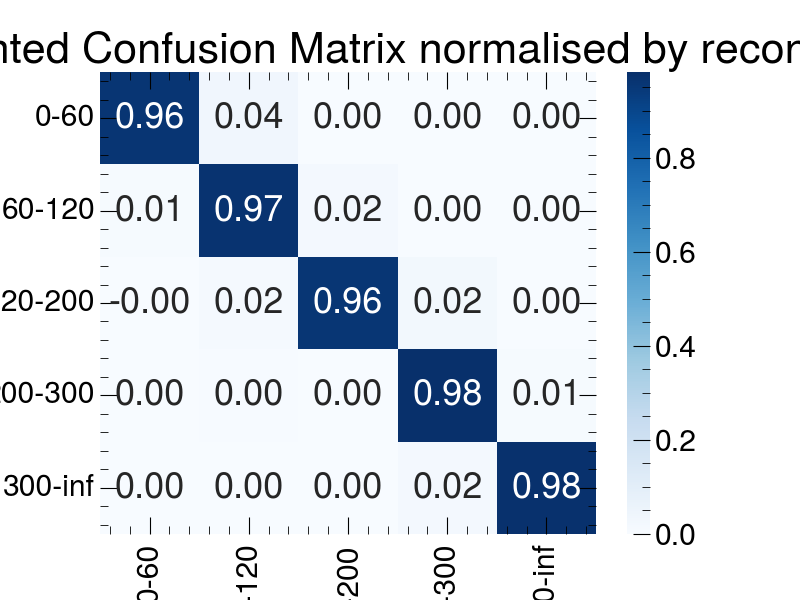
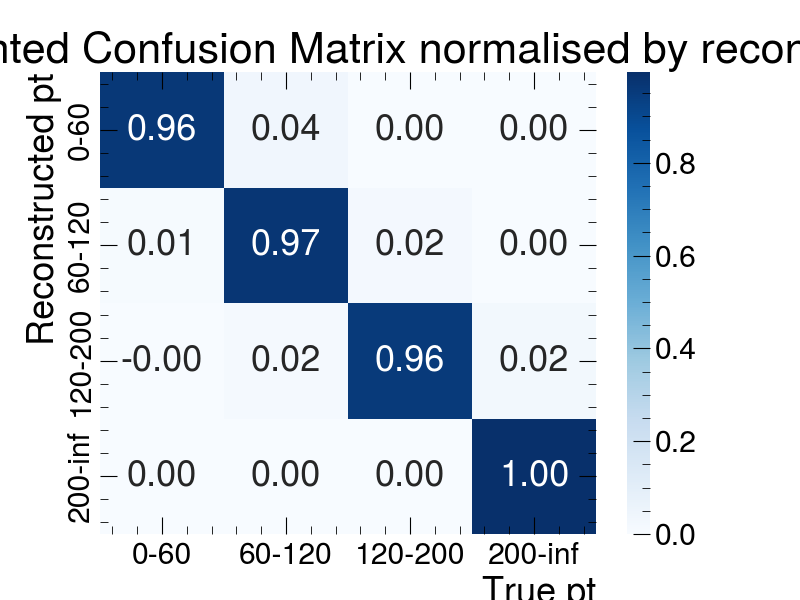
Switched to 4 categories, using MC exponential now

diff --git a/utils.py b/utils.py
@@ -77,7 +77,7 @@ def build_combined_histogram(hists, conf_matrix, signal='ttH', mass_bins = 5):
     return combined_histogram
 
 #[i,j] element of hessian
-def get_hessian(i, j, hists, mu_vals, conf_matrix, signal="ttH"):
+def get_hessian(p, q, hists, mu_vals, conf_matrix, signal="ttH"):
     cat_vals = []
     for cat, yields in hists.items():
         n_bins = len(list(yields.values())[0])
@@ -87,7 +87,7 @@ def get_hessian(i, j, hists, mu_vals, conf_matrix, signal="ttH"):
         #Loop over prod modes, gets me my sum over i
         for proc, bin_yields in yields.items():
             if proc == signal:
-                for truth_cat in range(5):
+                for truth_cat in range(len(conf_matrix[0])):
                     #print(mu_vals[truth_cat], hists[truth_cat][signal], conf_matrix[cat][truth_cat])
                     e+=mu_vals[truth_cat]*hists[truth_cat][signal]*conf_matrix[cat][truth_cat]                
             else:
@@ -95,16 +95,16 @@ def get_hessian(i, j, hists, mu_vals, conf_matrix, signal="ttH"):
             n += bin_yields
         
 
-        s_i = conf_matrix[cat][i]*yields[signal]
-        s_j = conf_matrix[cat][j]*yields[signal]
+        s_i = conf_matrix[cat][p]*yields[signal]
+        s_j = conf_matrix[cat][q]*yields[signal]
         cat_vals.append((s_i*s_j)/(e))
     return np.array(cat_vals).sum()
 
-#Unfinished not sure
+
 def get_hessian_comb(p, q, combined_histogram, mu_vals, signal ="ttH"):
-    #Iterate through recon cats
     hess = 0
-    for j in range(5):
+    #Iterate through recon cats
+    for j in range(len(mu_vals)):
         expected_total=np.zeros(5)
         observed_count=np.zeros(5)
         #Iterate through truth cats
@@ -220,15 +220,19 @@ def find_crossings(graph, yval, spline_type="cubic", spline_points=1000, remin=T
         return val, intervals
     else:
         return val
-def get_pt_cat(data):
-    conditions = [
-    (data < 60),
-    (data >= 60) & (data < 120),
-    (data >= 120) & (data < 200), 
-    (data >= 200) & (data < 300), 
-    (data >= 300)     
-    ]
-    return np.select(conditions, [0,1,2,3,4])
+def get_pt_cat(data, bins = [0,60,120,200,300]):
+    conditions = [(data>=bins[i]) & (data<bins[i+1]) for i in range(len(bins)-1)]
+    conditions.append(data>=bins[-1])
+    # conditions = [
+    # (data < bins[1]),
+    # (data >= bins[1]) & (data < bins[2]),
+    # (data >= bins[2]) & (data < bins[3]), 
+    # (data >= bins[3]) & (data < bins[4]), 
+    # (data >= bins[4])     
+    # ]
+    #return np.select(conditions, [0,1,2,3,4])
+    return np.select(conditions, [i for i in range(len(bins))])
+
 def get_conf_mat(data):
     #print(data.columns[data.columns[:4]=="HTXS"])
     data = data[data["pt-over-mass_sel"]==data["pt-over-mass_sel"]].reset_index(drop=True)
@@ -256,25 +260,26 @@ def get_conf_mat(data):
     truth = data["HTXS_Higgs_pt_sel"]
     recon = data["pt-over-mass_sel"]*data["mass_sel"]
 
-    truth_cat = get_pt_cat(truth)
-    recon_cat = get_pt_cat(recon)
+    truth_cat = get_pt_cat(truth, bins = [0,60,120,200])
+    recon_cat = get_pt_cat(recon, bins = [0,60,120,200])
     
     #6x6 conf matrix where x axis is truth dimension and y axis is recon dimension
-    conf_mat =np.zeros((5,5))
+    conf_mat =np.zeros((4,4))
 
     for i in range(len(recon_cat)):
         #print(data["plot_weight"][i], recon_cat[i],truth_cat[i], conf_mat[recon_cat[i]][truth_cat[i]]+data["plot_weight"][i])
         conf_mat[recon_cat[i]][truth_cat[i]]=conf_mat[recon_cat[i]][truth_cat[i]]+data["plot_weight"][i] #Not working not sure why
         #print(conf_mat)
     #print(conf_mat)
-    conf_mat_truth_prop = [[conf_mat[i][j]/sum(conf_mat[:,j]) for j in range(5)] for i in range(5)]
-    conf_mat_recon_prop = [[conf_mat[i][j]/sum(conf_mat[i]) for j in range(5)] for i in range(5)]
+    conf_mat_truth_prop = [[conf_mat[i][j]/sum(conf_mat[:,j]) for j in range(len(conf_mat[0]))] for i in range(len(conf_mat))]
+    conf_mat_recon_prop = [[conf_mat[i][j]/sum(conf_mat[i]) for j in range(len(conf_mat[0]))] for i in range(len(conf_mat))]
 
 
     #print("conf matrix: ", conf_mat)
     #print("Conf matrix by proportion of truth: ", conf_mat_truth_prop)
     #print("Conf matrix by proportion of recon: ", conf_mat_recon_prop)
-    labels = ["0-60", "60-120", "120-200", "200-300", "300-inf"]
+    #labels = ["0-60", "60-120", "120-200", "200-300", "300-inf"]
+    labels = ["0-60", "60-120", "120-200", "200-inf"]
     plt.figure(figsize=(8, 6))
     sns.heatmap(conf_mat, annot=True, fmt=".2f", cmap="Blues", cbar=True,
                 xticklabels=labels, yticklabels=labels)

diff --git a/simple_stat_analysis.py b/simple_stat_analysis.py
@@ -93,7 +93,7 @@ for i, proc in enumerate(procs.keys()):
     # e.g. number of leptons
     #conditions = get_pt_cat(pt)
     #dfs[proc]['category'] = np.array(dfs[proc]['n_leptons'] >= 1, dtype='int')
-    dfs[proc]['category'] =  get_pt_cat(pt)
+    dfs[proc]['category'] =  get_pt_cat(pt, bins=[0,60,120,200])
     
 # Extract different cat integers
 cats_unique = []
@@ -152,8 +152,8 @@ for cat in cats_unique:
     hists[cat] = {}
     for proc in procs.keys():
         #Adding background events from background distribution
-        if proc=="backgrounda":
-            hist_counts=get_back_int(cat, mass_range, mass_bins)
+        if proc=="background":
+            hist_counts=get_back_int(dfs["background"], cat, mass_range, mass_bins, len(cats_unique))
         else:
             cat_mask = dfs[proc]['category'] == cat
             hist_counts = np.histogram(dfs[proc][cat_mask][v], mass_bins, mass_range, weights=dfs[proc][cat_mask]['true_weight'+col_name])[0]
@@ -171,7 +171,7 @@ new_samples = pd.read_parquet(f"{sample_path}/ttH_processed_selected.parquet")
 Frozen scan over mu
 '''
 conf_matrix = get_conf_mat(new_samples) #conf_matrix[2] is the one normalised by recon
-init_mu = [1,1,1,1,1]
+init_mu = [1,1,1,1]
 for cat in cats_unique:
     cat_vals = []
     for mu in mu_vals:
@@ -213,7 +213,7 @@ for idx in range(len(cats_unique)):
 fig.delaxes(axes[1,2])
 fig.suptitle("Frozen NLL scan for each mu using ind hist")
 fig.savefig(f"{analysis_path}/2nll_vs_mu_subplot_fro.png", bbox_inches="tight")
-fig.show()
+#fig.show()
 #%%
 '''
 Scanning using combined hist
@@ -223,7 +223,7 @@ NLL FROZEN SCAN USING COMBINED HISTOGRAM
 ''')
 comb_hist = build_combined_histogram(hists, conf_matrix[2], mass_bins=5)
 #NLL_vals = []
-init_mu = [1,1,1,1,1]
+init_mu = np.ones(len(conf_matrix[2]))
 
 fig, axes = plt.subplots(ncols=5, figsize=(25, 5), dpi = 300, sharex=True)
 
@@ -260,7 +260,7 @@ NLL PROFILED SCAN USING COMBINED HISTOGRAM
 ''')
 best_mus = np.ones(5)
 fig, ax = plt.subplots(1, 5, figsize=(40, 7))
-for idx in range(5):
+for idx in range(len(conf_matrix[2])):
     best_mus[idx], nll_mu = profiled_NLL_fit(comb_hist,conf_matrix[2], idx)
     vals = find_crossings((mu_vals, TwoDeltaNLL(nll_mu)), 1.)
     print("Best mu for idx:", idx, "is", vals[0] ,"+/-", vals[1:])
@@ -294,10 +294,10 @@ print('''
 Getting Hessian matrix
 ''')
 print("All mus:", all_mu)
-hessian = np.zeros((5, 5))
+hessian = np.zeros((len(conf_matrix[2]), len(conf_matrix[2])))
 #hessian = [[0 for i in range(5)] for j in range(5)]
-for i in range(5):
-    for j in range(5):
+for i in range(len(conf_matrix[2])):
+    for j in range(len(conf_matrix[2])):
         hessian[i][j] = get_hessian(i,j, hists, all_mu, conf_matrix[2])
 print("Hessian: \n", hessian)
 show_matrix(hessian, "Hessian matrix")
@@ -306,10 +306,10 @@ show_matrix(get_cov(hessian), "Covariance matrix")
 print('''
 Getting Hessian matrix from combined hist
 ''')
-hessian_comb = np.zeros((5, 5))
+hessian_comb = np.zeros((len(conf_matrix[2]), len(conf_matrix[2])))
 
-for i in range(5):
-    for j in range(5):
+for i in range(len(conf_matrix[2])):
+    for j in range(len(conf_matrix[2])):
         hessian_comb[i][j] = get_hessian_comb(i,j, comb_hist, all_mu)
 print("Hessian from comb hist: \n", hessian_comb)
 show_matrix(hessian_comb, "Hessian matrix from comb hist")

diff --git a/background_dist.py b/background_dist.py
@@ -9,8 +9,9 @@ from utils import get_pt_cat
 
 def exp(x, lam, A):
     return A*np.exp(-lam*x)
-def get_background_dist():
-    back_data = pd.read_parquet(f"{sample_path}/Data_processed_selected.parquet")
+def get_background_dist(back_data, num_cats=5):
+    #back_data = pd.read_parquet(f"{sample_path}/Data_processed_selected.parquet")
+    #print("back_data: ", back_data)
     back_mass = back_data["mass_sel"]#.dropna().reset_index(drop=True)
     back_pt = back_data["pt-over-mass_sel"]*back_mass
     #print(back_pt)
@@ -21,7 +22,7 @@ def get_background_dist():
     #print(np.unique(back_data["categories"]))
 
     fits = []
-    for cat in range(5):
+    for cat in range(num_cats):
         #Combining categories 4 and 5
         # if cat==4:
         #     mask = (back_data["categories"]==cat) or (back_data["categories"]==cat+1)
@@ -46,8 +47,8 @@ def get_background_dist():
     #fig.savefig(f"{analysis_path}/back_mass.png", bbox_inches="tight")
     return fits
 
-def get_back_int(cat, bounds, n_bins):
-    p_fit = get_background_dist()[cat]
+def get_back_int(data, cat, bounds, n_bins, num_cats=5):
+    p_fit = get_background_dist(data,num_cats)[cat]
     lam, A = p_fit
 
     events = []
@@ -62,7 +63,7 @@ def get_back_int(cat, bounds, n_bins):
 
 
 
-get_background_dist()
-print(get_back_int(3, (120, 130), 5))
+#get_background_dist()
+#print(get_back_int(3, (120, 130), 5))
 
 # %%

diff --git a/nll.py b/nll.py
@@ -29,7 +29,7 @@ def calc_NLL(hists, mus, conf_matrix = [],signal='ttH'):
                     which in this case is 1 for all categories other than the one we are looking at for which it is mu, as we 
                     are performing a frozen fit.
                     '''
-                    for truth_cat in range(5):
+                    for truth_cat in range(len(conf_matrix[0])):
                         e+=mus[truth_cat]*hists[truth_cat][signal]*conf_matrix[cat][truth_cat]
                 else:
                     e+=mus[0]*bin_yields
